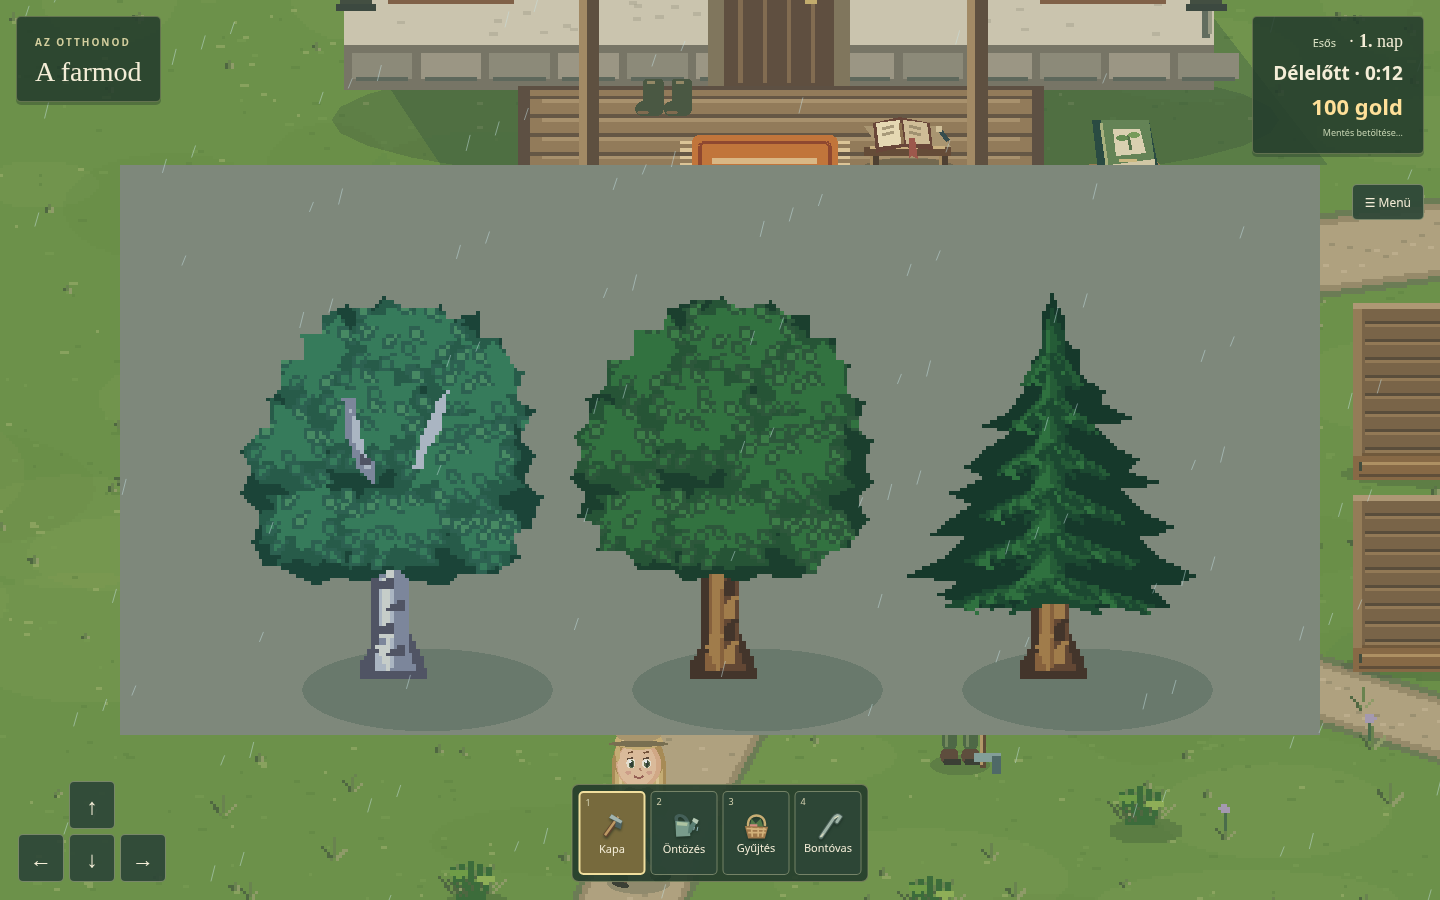
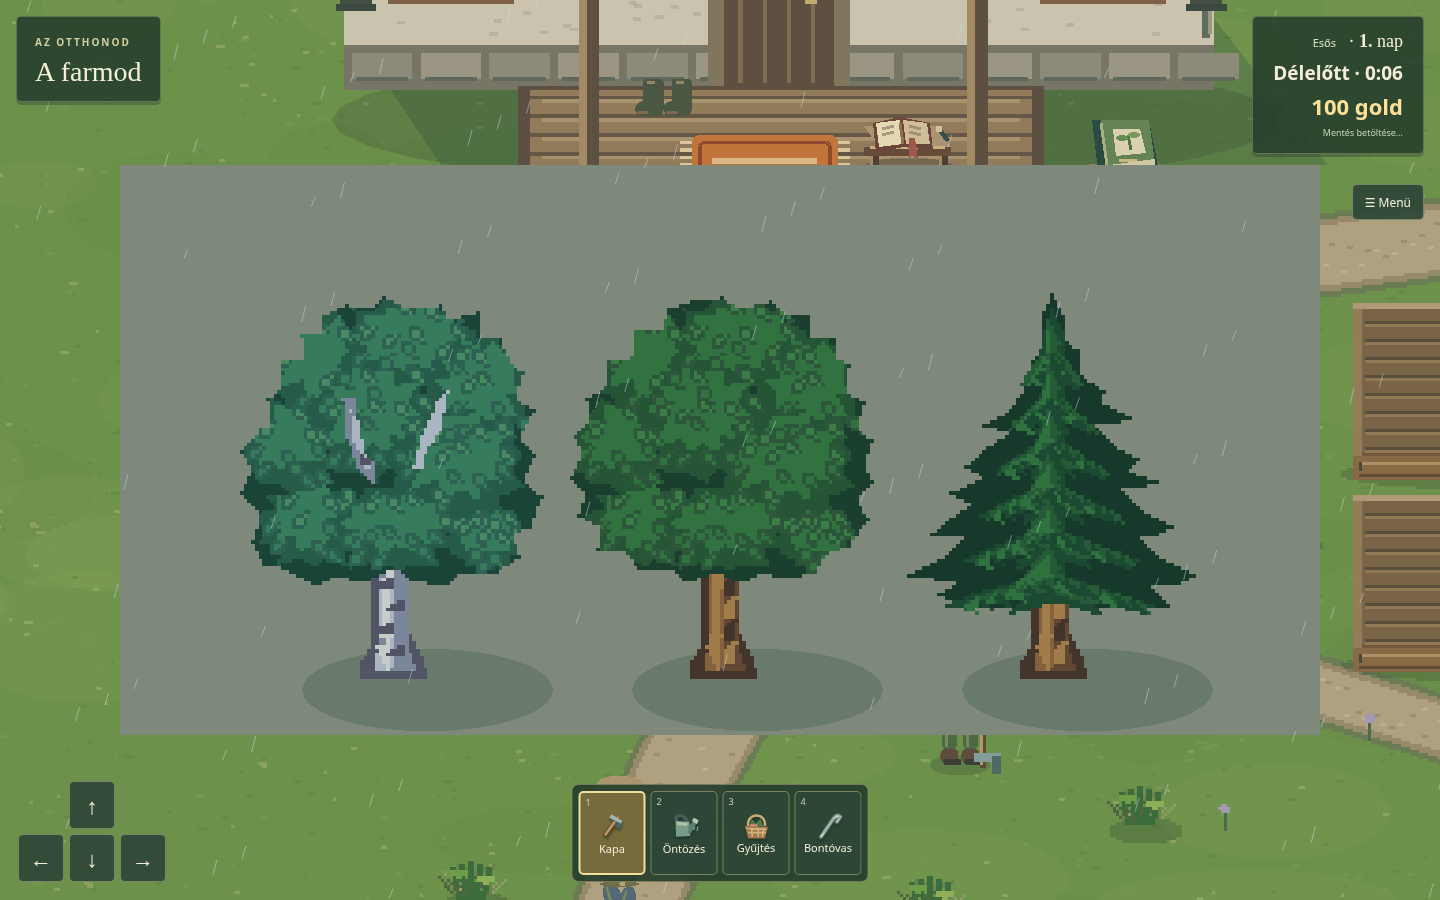
Thin tree leaves slightly and remove decorative grass tufts

diff --git a/src/world-art.ts b/src/world-art.ts
@@ -14,6 +14,7 @@ export function drawFarm(scene:Phaser.Scene,clearing:Clearing=createClearing(),g
  const oval=(x:number,y:number,w:number,h:number,c:number,a=1)=>{g.fillStyle(study?studyColor(c):c,a);g.fillEllipse(x,y,w,h);};
  const poly=(points:number[],c:number,a=1)=>{g.fillStyle(study?studyColor(c):c,a);g.fillPoints(Array.from({length:points.length/2},(_,i)=>new Phaser.Geom.Point(points[i*2],points[i*2+1])),true);};
  const line=(x:number,y:number,xx:number,yy:number,c:number,w=1,a=1)=>{g.lineStyle(w,study?studyColor(c):c,a);g.lineBetween(x,y,xx,yy);};
+ // Grass-blade motif remains only for removable weeds, not decoration.
  const tuft=(x:number,y:number,size=1)=>{line(x,y,x-4*size,y-5*size,0x536b3d);line(x,y,x+size,y-8*size,0x718b4e);line(x+1,y,x+5*size,y-4*size,0x9ca76a);};
  const rock=(x:number,y:number,s=1)=>{
   oval(x+3*s,y+4*s,33*s,12*s,0x273c32,.27);
@@ -22,7 +23,7 @@ export function drawFarm(scene:Phaser.Scene,clearing:Clearing=createClearing(),g
   poly([x-12*s,y-9*s,x-4*s,y-2*s,x-6*s,y+6*s,x-15*s,y+2*s],0x8d9b93);
   poly([x-4*s,y-2*s,x+7*s,y-5*s,x+17*s,y-3*s,x+13*s,y+5*s,x-6*s,y+6*s],0x75857f);
   line(x-3*s,y-13*s,x-5*s,y-7*s,0xd2d0bb);line(x+7*s,y-5*s,x+5*s,y+2*s,0x4d5c58);
-  oval(x-9*s,y+5*s,9*s,3*s,0x78854c);tuft(x-17*s,y+7*s,.65);
+  oval(x-9*s,y+5*s,9*s,3*s,0x78854c);
  };
  const tree=(x:number,y:number,s=1)=>{
   if(study){drawStudyTree(g,x,y,s);return;}
@@ -41,7 +42,7 @@ export function drawFarm(scene:Phaser.Scene,clearing:Clearing=createClearing(),g
  if(study)drawStudyGrass(g,left,top,width,height,random);else{
  rect(left,top,width,height,0x759c48);
  for(let i=0;i<480;i++)oval(left+random()*width,top+random()*height,35+random()*70,15+random()*35,i%2?0x5b873c:0x9eb45c,.13);
- for(let i=0;i<12500;i++){const x=left+random()*width,y=top+random()*height;rect(x,y,1+random()*2,1,[0x658b3f,0xb0bf71,0x82a851][i%3],.55);if(i%10===0)tuft(x,y,.35);}
+ for(let i=0;i<12500;i++){const x=left+random()*width,y=top+random()*height;rect(x,y,1+random()*2,1,[0x658b3f,0xb0bf71,0x82a851][i%3],.55);}
  }
  drawPathNetwork(g,layout.paths,study?studyColor:undefined);
  // Texture follows the paths rather than spilling over their edges.
@@ -105,7 +106,7 @@ export function drawFarm(scene:Phaser.Scene,clearing:Clearing=createClearing(),g
  poly(shoreline(-7),0x288b98);const shallows=new Phaser.Curves.Spline([p.x-100,p.y-25,p.x-74,p.y-62,p.x-13,p.y-76,p.x+44,p.y-56,p.x+101,p.y-9,p.x+118,p.y+38,p.x+68,p.y+76,p.x+9,p.y+87,p.x-68,p.y+55,p.x-104,p.y+12,p.x-100,p.y-25]);poly(shallows.getPoints(72).flatMap(point=>[point.x,point.y]),0x42a5a7);
  for(let i=0;i<(study?0:110);i++){const x=p.x-p.rx+random()*p.rx*2,y=p.y-p.ry+random()*p.ry*2;if(((x-p.x)/p.rx)**2+((y-p.y)/p.ry)**2<.87)line(x,y,x+4+random()*12,y, i%3?0x98d9cb:0xe1edbc,1,.45);}
  for(const [dx,dy,w]of [[-72,-52,18],[-61,-48,8],[-89,-44,13],[-44,-59,10],[-68,-39,5]])line(p.x+dx,p.y+dy,p.x+dx+w,p.y+dy,0xf0f0c2,1,.8);
- for(let i=0;i<48;i++){const a=random()*Math.PI*2,wobble=pondRadius(a),x=p.x+Math.cos(a)*(p.rx+5)*wobble,y=p.y+Math.sin(a)*(p.ry+5)*wobble;if(x<500&&y<420)continue;tuft(x,y,.8);if(i%5===0)rock(x,y,.3);}
+ for(let i=0;i<48;i++){const a=random()*Math.PI*2,wobble=pondRadius(a),x=p.x+Math.cos(a)*(p.rx+5)*wobble,y=p.y+Math.sin(a)*(p.ry+5)*wobble;if(x<500&&y<420)continue;if(i%5===0)rock(x,y,.3);}
  for(const [x,y]of [[570,443],[731,480],[620,540]]){oval(x+2,y+2,18,8,0x345e52);oval(x,y,16,7,0x7b9a64);line(x-5,y,x+4,y,0xa1b27e);oval(x+3,y-3,5,4,0xe2cfb1);}
  for(let i=0;i<17;i++){const x=557+i*6,y=358-Math.sin(i*.3)*5;line(x,y,x-2,y-17,0x4c6945);rect(x-3,y-21,2,7,0x735e3d);}
  const d=layout.dock;oval(d.x+34,d.y+27,76,17,0x2f5047,.35);rect(d.x,d.y,d.w,d.h,0x5f503c);for(let x=d.x+2;x<d.x+d.w;x+=8){rect(x,d.y+2,6,d.h-4,0xa18a61);line(x+2,d.y+5,x+2,d.y+d.h-6,0xc0ab7a);rect(x+2,d.y+4,1,1,0x4a4a3a);}for(const x of [d.x,d.x+d.w-5]){rect(x,d.y-5,5,11,0x735337);rect(x,d.y+d.h-6,5,11,0x735337);rect(x,d.y-5,5,2,0xc2aa78);}
@@ -130,7 +131,7 @@ export function drawFarm(scene:Phaser.Scene,clearing:Clearing=createClearing(),g
  };
  const gate=layout.southGate;if(fenceGap){fence(farmBounds.left,fenceGap.from);fence(fenceGap.to,gate.x-6);}else fence(farmBounds.left,gate.x-6);fence(gate.x+gate.w+6,farmBounds.right);
  for(const x of [gate.x-6,gate.x+gate.w+6]){rect(x-6,554,12,44,0x493020);rect(x-4,557,4,38,0x8b603a);rect(x-8,551,16,6,0x67472d);line(x-7,551,x+7,551,0xac8050);for(const y of [570,584])rect(x-6,y,12,3,0x35382d);}
- for(let i=0;i<(study?0:110);i++){const x=45+random()*710,y=275+random()*265;if(Math.abs(x-215)<65||x>480&&y>340||x>325&&x<495&&y<380)continue;tuft(x,y,.6+random()*.4);if(i%4===0){line(x,y-3,x,y-9,0x4e7149);oval(x,y-10,4,3,i%2?0xd9cfac:0xb5a5bd);}}
+ for(let i=0;i<(study?0:110);i++){const x=45+random()*710,y=275+random()*265;if(Math.abs(x-215)<65||x>480&&y>340||x>325&&x<495&&y<380)continue;random();if(i%4===0){line(x,y-3,x,y-9,0x4e7149);oval(x,y-10,4,3,i%2?0xd9cfac:0xb5a5bd);}}
  if(study)drawStudyBorders(g);
  // Bake the static landscape once; its thousands of marks become one draw per frame.
  const resolution=study?2:1;
@@ -152,7 +153,7 @@ export function drawFarm(scene:Phaser.Scene,clearing:Clearing=createClearing(),g
    poly([xx-w,yy+3*s,xx-w*.85,yy-h*.5,xx-w*.25,yy-h,xx+w*.6,yy-h*.8,xx+w,yy,xx+w*.6,yy+4*s],k%2?0x7c8576:0x85847a);
    poly([xx-w*.85,yy-h*.5,xx-w*.25,yy-h,xx+w*.6,yy-h*.8,xx+w*.3,yy-h*.2,xx-w*.3,yy],0xb6b5a0);
    line(xx-w*.3,yy-h,xx-w*.1,yy,0x5e675a,.9*s);oval(xx+w*.3,yy+2*s,9*s,4*s,0x71854d);line(xx-w,yy+4*s,xx+w*.7,yy+4*s,0x97835b,2*s);
-  }tuft(x-18*s,y+4*s,.55*s);tuft(x+17*s,y+5*s,.55*s);
+  }
  }
  for(const item of activeDebris(clearing,garden).filter(d=>d.kind==='branch')){
   const {x,y,scale:baseScale}=item,s=baseScale*1.3,k=[...item.id].reduce((n,c)=>n+c.charCodeAt(0),0)%3;oval(x+2*s,y+5*s,42*s,13*s,0x344b33,.25);
@@ -163,7 +164,7 @@ export function drawFarm(scene:Phaser.Scene,clearing:Clearing=createClearing(),g
    for(let i=0;i<3;i++){const yy=y+(i===2?-6:i*4)*s,xx=x+(i===2?3:-2)*s;line(xx-15*s,yy,xx+14*s,yy-4*s,0x6c5037,7*s);line(xx-13*s,yy-2*s,xx+12*s,yy-6*s,0xa08253,2*s);oval(xx-15*s,yy,7*s,8*s,0xc8ad79);oval(xx-15*s,yy,4*s,5*s,0x917149);line(xx-17*s,yy,xx-14*s,yy+2*s,0x715a3e,s);}
   }else{ // A naturally forked, leafy fallen branch.
    line(x-18*s,y+3*s,x+16*s,y-4*s,0x654a32,6*s);line(x-16*s,y+1*s,x+15*s,y-6*s,0xa18357,1.5*s);line(x-2*s,y,x+5*s,y-13*s,0x725338,3*s);line(x+7*s,y-2*s,x+18*s,y-11*s,0x725338,2*s);oval(x-18*s,y+3*s,5*s,6*s,0xc6a570);oval(x+7*s,y-12*s,8*s,4*s,0x7c9253);
-  }tuft(x+18*s,y+5*s,.6*s);oval(x-4*s,y+6*s,11*s,3*s,0x6e8348);
+  }oval(x-4*s,y+6*s,11*s,3*s,0x6e8348);
  }
  for(const {x,y}of activeDebris(clearing,garden).filter(d=>d.kind==='weed')){oval(x+2,y+2,25,9,0x314c2b,.3);for(let i=-2;i<=2;i++){tuft(x+i*3,y-Math.abs(i),1.3);line(x+i*2,y,x+i*3,y-13+Math.abs(i),0x3d7137,2);}oval(x-4,y-9,6,3,0x78a844);oval(x+5,y-7,7,3,0x9cbd57);}
  for(const item of activeDebris(clearing,garden)){const progress=clearing.progress?.[item.id];if(!progress)continue;for(let i=0;i<3;i++){oval(item.x+(i-1)*6,item.y+15,4,3,i<progress?0xe6c67c:0x3f5237);}}

diff --git a/src/village-art.ts b/src/village-art.ts
@@ -1,9 +1,8 @@
 import {drawShrubLeaf} from './foliage-leaf';
 import {drawMaraBay} from './nursery-art';
 import {drawVillageDetails} from './village-details';
-import {marketRoads,marketRoadContains} from './market-trial-route';
+import {marketRoads} from './market-trial-route';
 import {marketStand} from './market-site';
-import {boundsOffPaths} from './path-clearance';
 import {worldText} from './world-text';
 import {forageReady} from './travel';
 import {drawPathNetwork} from './path-art';
@@ -76,8 +75,7 @@ export function drawVillage(scene:Phaser.Scene){
  for(let i=0;i<25;i++)tree(-170+(i%4)*47,695+Math.floor(i/4)*83,i%3,.85+(i%3)*.08);
  for(const t of [...villageTrees,...forestTrees].sort((a,b)=>a.y-b.y))tree(t.x,t.y,t.kind,t.scale??1);
  for(const[x,y,k]of [[762,1178,0],[738,1337,2],[559,1372,1],[273,1375,0]])tree(x,y,k,.9);
- // Ferns, fallen leaves and meadow flowers along the shaded fork.
- for(let i=0;i<70;i++){const x=45+random()*240,y=660+random()*520;if(!boundsOffPaths({left:x-7,right:x+7,top:y-12,bottom:y+5},[...villagePaths,...marketRoads]))continue;for(let j=0;j<4;j++)line(x,y,x+(j-1.5)*4,y-5-random()*8,0x63894e);if(i%3===0)oval(x,y,4,2,0xc6b77c,.7);}
+ // Decorative grass tufts removed: the forest floor stays below the trees.
  // Supported wooden signs at the road and its forest fork, rather than text in grass.
  const sign=(postX:number,groundY:number,left:number,top:number,width:number,text:string,direction:'left'|'right'|'down')=>{
   oval(postX+4,groundY+3,19,7,0x35553a,.22);rect(postX-2,top+10,5,groundY-top-8,0x6b5438);rect(postX-1,top+12,2,groundY-top-10,0xac8858);

diff --git a/src/woodland-tree.ts b/src/woodland-tree.ts
@@ -72,7 +72,7 @@ export function drawWoodlandTree(g:Phaser.GameObjects.Graphics,random:()=>number
   for(let k=0;k<patches.length;k++){
    const [cx,cy,rx,ry]=patches[k];
    for(let row=0;row<4;row++)for(let col=0;col<5;col++){
-    const a=hash(k*31+row*5+col,k+7);if(a%3===0)continue;
+    const a=hash(k*31+row*5+col,k+7);if(a%3===0||a%13===0)continue;
     const xx=Math.round(cx+(col-2)*rx*.34+(row%2?2:0)+(a%3)-1),yy=Math.round(cy+(row-1.5)*ry*.39+(col%2)+((a>>>5)%3)-1);
     const angle=(col<2?-1:1)*(.45+(a%3)*.18),cos=Math.cos(angle),sin=Math.sin(angle);
     const transform=(points:number[])=>points.map((v,i)=>i%2?yy+points[i-1]*sin+v*cos:xx+v*cos-points[i+1]*sin);

diff --git a/docs/jatekterv.md b/docs/jatekterv.md
@@ -1589,3 +1589,5 @@ A felhasználó kifejezett pontosítása: a nyír, lombos fa és fenyő korábbi
 A felhasználó az elkülönülő, sötét szélű levelek irányát elfogadta. A levélforma nyújtottabb, lágyabban ívelt; a kontúr maradjon felismerhető, de kisebb legyen a belső levélszínhez viszonyított kontrasztja. Az áfonyabokrok és Mara mindkét díszbokra ugyanilyen részletességű leveleket kap. Az áfonya szedhetősége és a látható bogyók megmaradnak; Mara metszése továbbra is fokozatosan rendezett formát alakít ki, levágott levelekkel. Elhelyezés és játékmenet nem változik.
 
 A következő finomításnál a levelek hegyesebbek, a fák lombján ritkábbak. Az áfonyabokrok szabályos levélsorai helyett néhány rövid hajtáshoz kapcsolódó, lazább levélcsoport készül. Mara bokrain a felhasználó által kedvelt kiálló levelek és azok metszés alatti visszahúzódása megmarad.
+
+A felhasználó további enyhe levélritkítást kért a fákon; az áfonyabokrok legutóbbi megjelenését egyelőre változatlanul kell hagyni. A kis dekorációs fűcsomók nem tetszenek neki, ezért a farmról és az erdei/falusi elágazás mellől eltűnnek. A finom talajtextúra, a szedhető gyógynövények és az eltávolítható gaz megmarad. A fa fölé rajzolódó dekorációs fűcsomók hibáját az érintett fűcsomók eltávolítása oldja meg; az utólagos díszítő réteg nem takarhatja át a fák lombját.

diff --git a/docs/qa/0.3.0-sparser-trees-no-grass-tufts.md b/docs/qa/0.3.0-sparser-trees-no-grass-tufts.md
@@ -1,0 +1,7 @@
+# Enyhébb levélritkítás és a díszítő fűcsomók eltávolítása
+
+A lombos fák levélhelyei további nagyjából 8%-kal ritkábbak. A közös véletlenszám-fogyasztás, a sziluettek, a helyek és az ütközések nem változnak. Az áfonyabokor rajza és a közös levélforma változatlan.
+
+A felhasználó a fűcsomók eltávolítását választotta a rétegzés javítása helyett. A falusi/erdei elágazás körüli fűcsomókat ugyanabba a statikus rajzba, a fák után festette a kód, ezért látszottak át a lombokon. Ez a dekorációs ciklus megszűnt. A farm talaján, tópartján és a kövek/ágak melletti dekorációs fűcsomók is eltűntek. A finom talajszemcsék és virágok megmaradnak. A gaz rajzolása továbbra is használ fűszálmotívumot, mert az gyűjthető játékelem, nem díszítő fűcsomó.
+
+Ellenőrzés: teljes Vitest és TypeScript/Vite build; elkülönített Chromium/CDP friss erdei és háromfás képpel, böngészős kivétel nélkül. Új tesztmód, mentésmódosítás vagy területátrendezés nincs.
